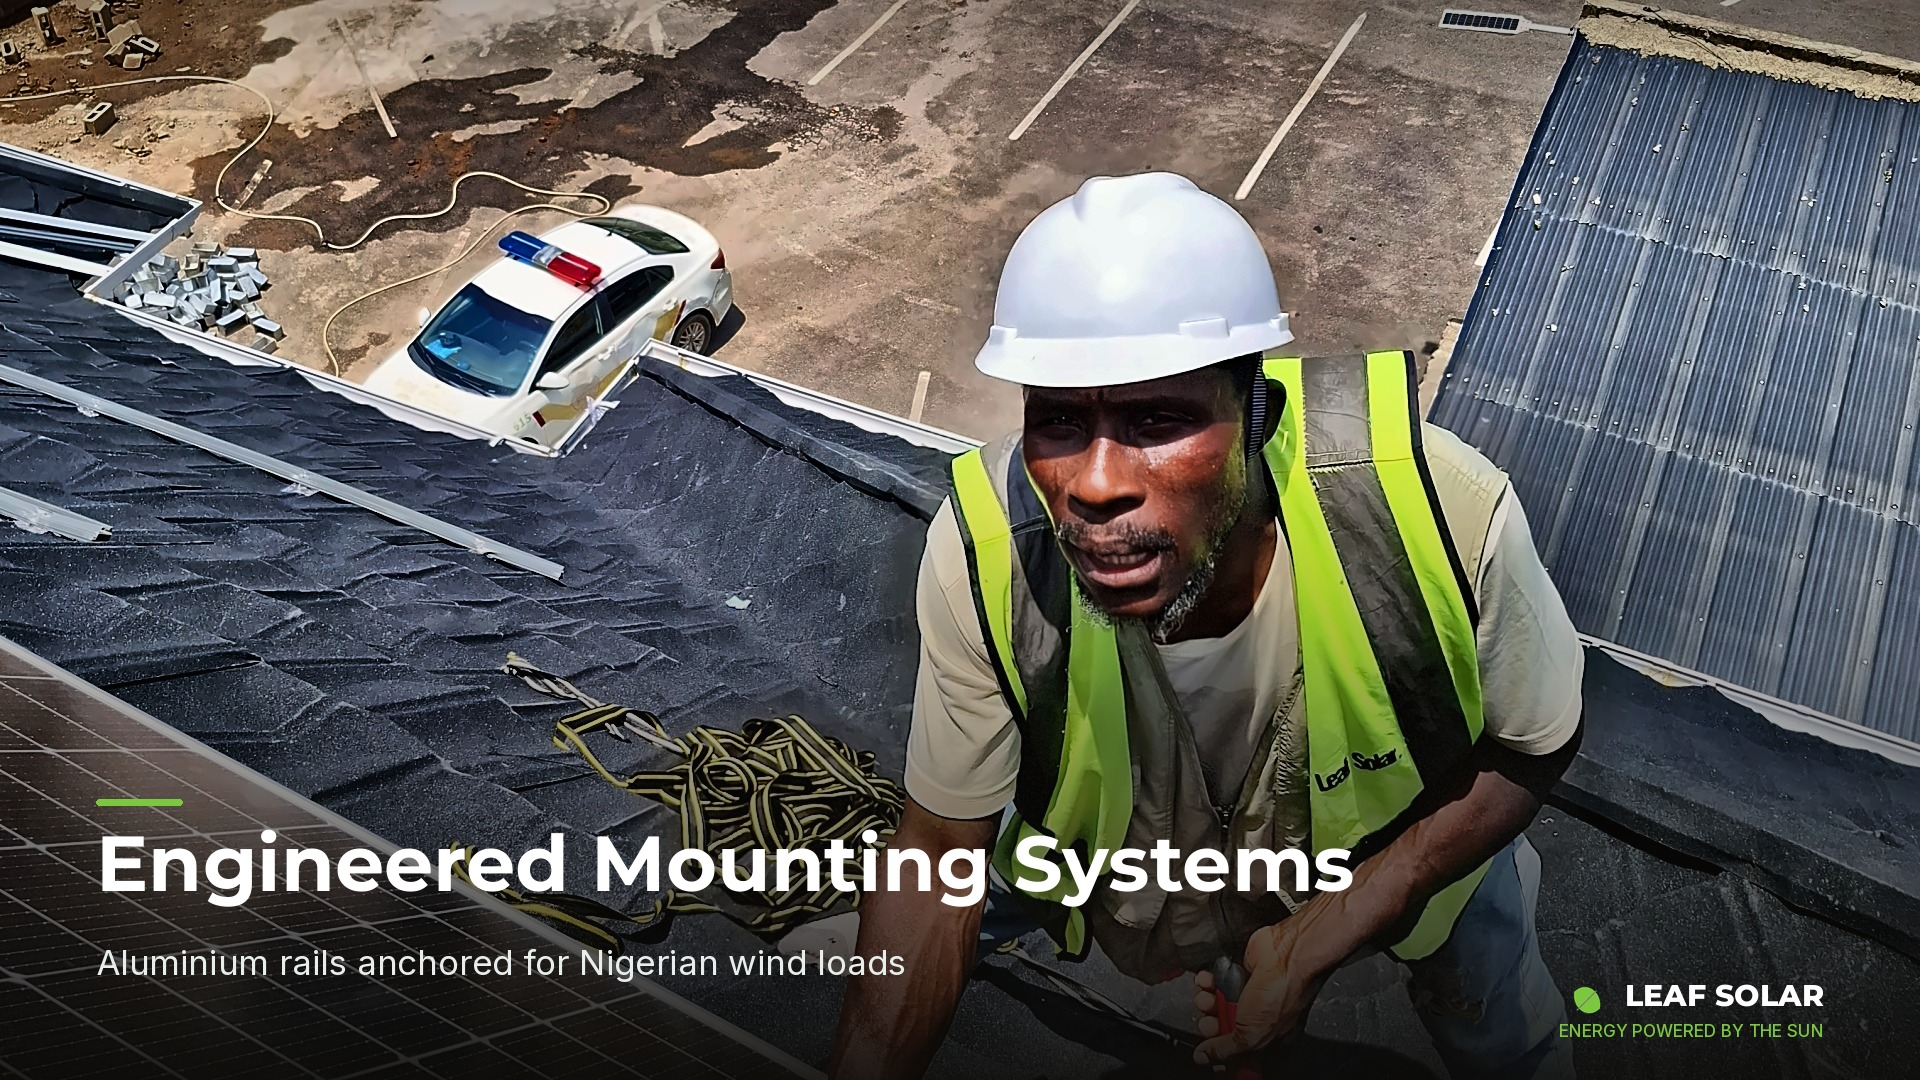
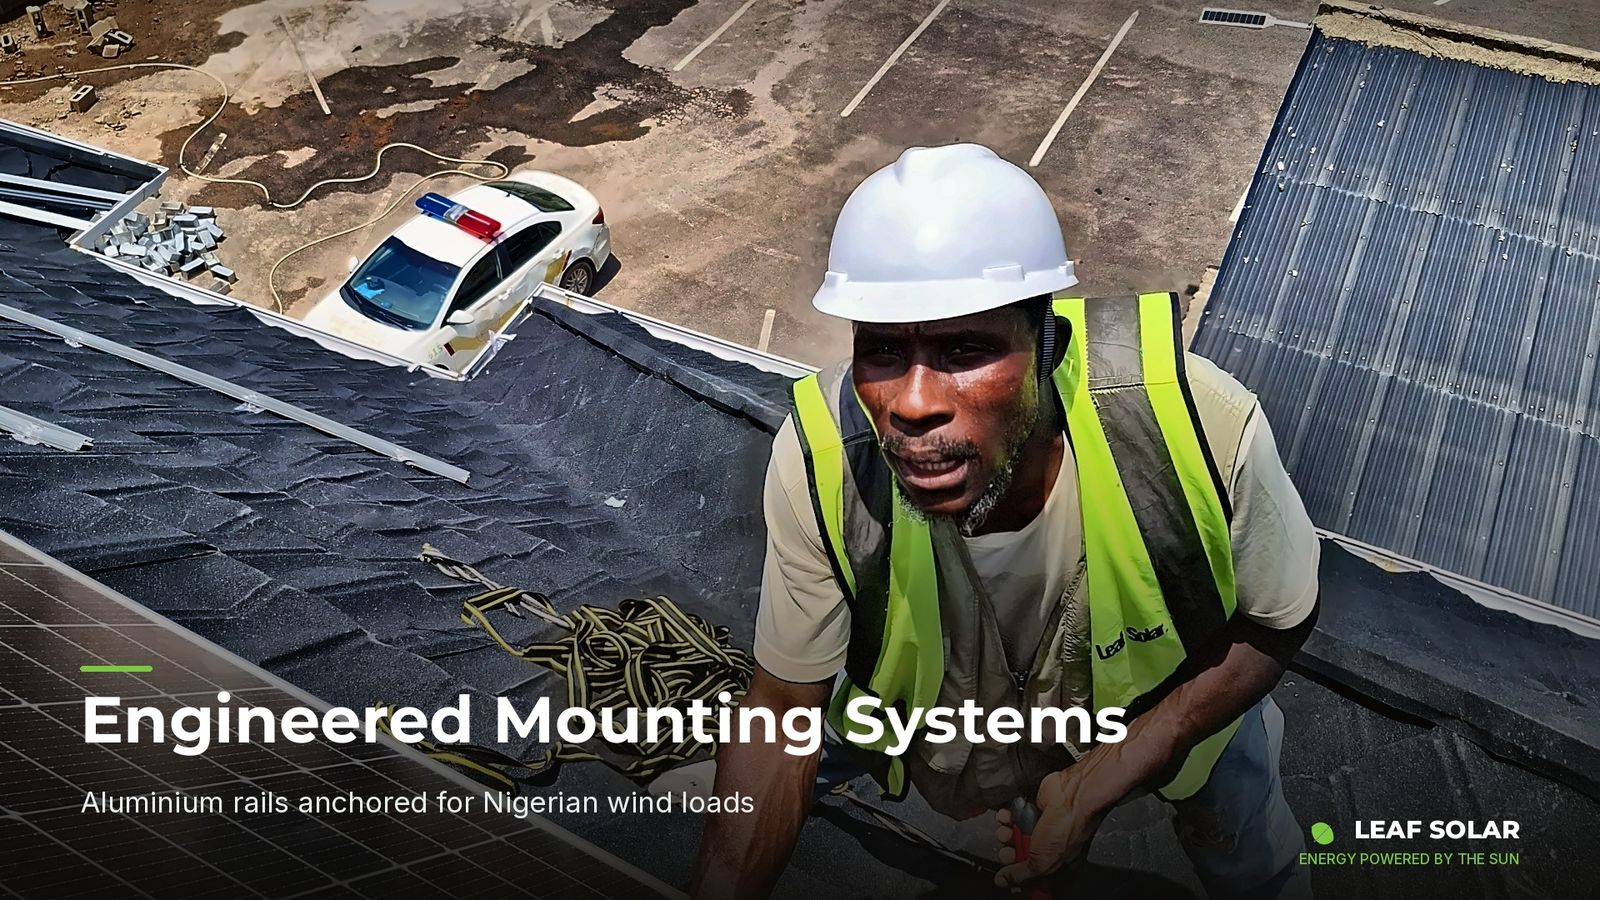
PageSpeed fixes: 36px carousel dot touch targets, transform-based dot animation, optimized carousel images (3MB -> 1.3MB)

Changed region(s): [[0.8125, 0.9333, 0.9062, 0.9644]]

diff --git a/components/HeroCarousel.tsx b/components/HeroCarousel.tsx
@@ -84,7 +84,7 @@ export default function HeroCarousel({ slides, className }: { slides: Slide[]; c
             type="button"
             onClick={() => go(index - 1)}
             aria-label="Previous photo"
-            className="absolute left-2 top-1/2 z-10 grid h-9 w-9 -translate-y-1/2 place-items-center rounded-full bg-black/35 text-white backdrop-blur transition hover:bg-black/60 sm:left-3 sm:h-10 sm:w-10"
+            className="absolute left-2 top-1/2 z-10 grid h-11 w-11 -translate-y-1/2 place-items-center rounded-full bg-black/35 text-white backdrop-blur transition hover:bg-black/60 sm:left-3"
           >
             <svg width="16" height="16" viewBox="0 0 24 24" fill="none" stroke="currentColor" strokeWidth="2.4" strokeLinecap="round" strokeLinejoin="round" aria-hidden="true"><path d="M15 18l-6-6 6-6" /></svg>
           </button>
@@ -92,11 +92,11 @@ export default function HeroCarousel({ slides, className }: { slides: Slide[]; c
             type="button"
             onClick={() => go(index + 1)}
             aria-label="Next photo"
-            className="absolute right-2 top-1/2 z-10 grid h-9 w-9 -translate-y-1/2 place-items-center rounded-full bg-black/35 text-white backdrop-blur transition hover:bg-black/60 sm:right-3 sm:h-10 sm:w-10"
+            className="absolute right-2 top-1/2 z-10 grid h-11 w-11 -translate-y-1/2 place-items-center rounded-full bg-black/35 text-white backdrop-blur transition hover:bg-black/60 sm:right-3"
           >
             <svg width="16" height="16" viewBox="0 0 24 24" fill="none" stroke="currentColor" strokeWidth="2.4" strokeLinecap="round" strokeLinejoin="round" aria-hidden="true"><path d="M9 6l6 6-6 6" /></svg>
           </button>
-          <div className="absolute inset-x-0 bottom-3 z-10 flex items-center justify-center gap-2">
+          <div className="absolute inset-x-0 bottom-3 z-10 flex items-center justify-center gap-1">
             {slides.map((slide, i) => (
               <button
                 key={slide.src}
@@ -104,8 +104,14 @@ export default function HeroCarousel({ slides, className }: { slides: Slide[]; c
                 onClick={() => go(i)}
                 aria-label={`Go to photo ${i + 1}`}
                 aria-current={i === index}
-                className={`h-2 rounded-full transition-all ${i === index ? 'w-6 bg-white' : 'w-2 bg-white/50 hover:bg-white/80'}`}
-              />
+                className="grid h-9 w-9 place-items-center" /* 36px touch target */
+              >
+                <span
+                  className={`block h-2 w-7 origin-center rounded-full transition-transform duration-300 ${
+                    i === index ? 'scale-x-100 bg-white' : 'scale-x-[0.29] bg-white/60 hover:bg-white/90'
+                  }`}
+                />
+              </button>
             ))}
           </div>
         </>
